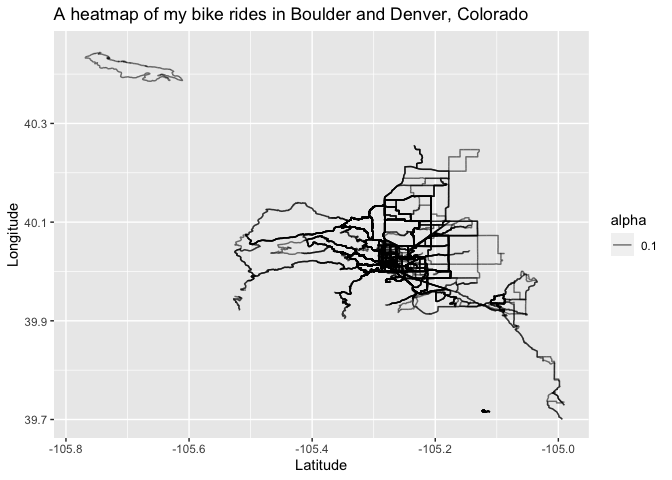
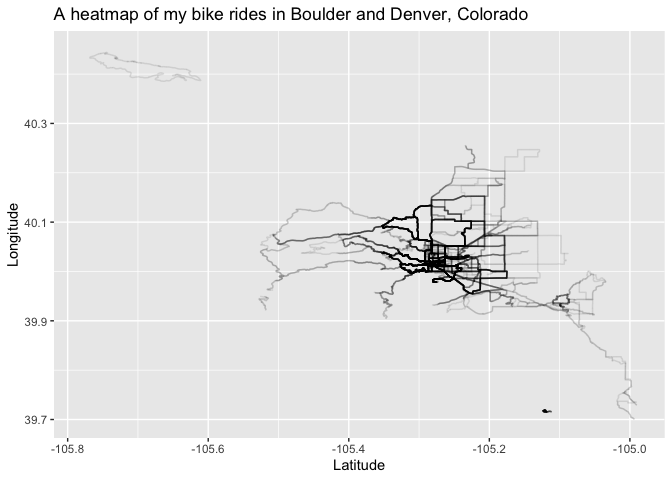
small edits and last image change

diff --git a/_posts/2022-04-15-Cycling-Analytics.md b/_posts/2022-04-15-Cycling-Analytics.md
@@ -316,7 +316,7 @@ all_rides_avgs.dtypes.apply(lambda x: x.name).to_dict()
 all_rides_avgs.to_csv('/Users/kylekent/Desktop/research/CS_misc/GitHub/strava_project/all_rides_avgs2.csv.gz', index = False, compression = 'gzip')
 ```
 
-# Plotting GPS data with plotly
+# Plotting rides with ggplot
 
 Originally I planned to show interactive plots of a GPS heatmap for all my rides. Sadly, the files are too large for github pages. Instead the non-interactive heat maps are given below. If you'd like to see the interactive html files I am happy to share them with you.
 
